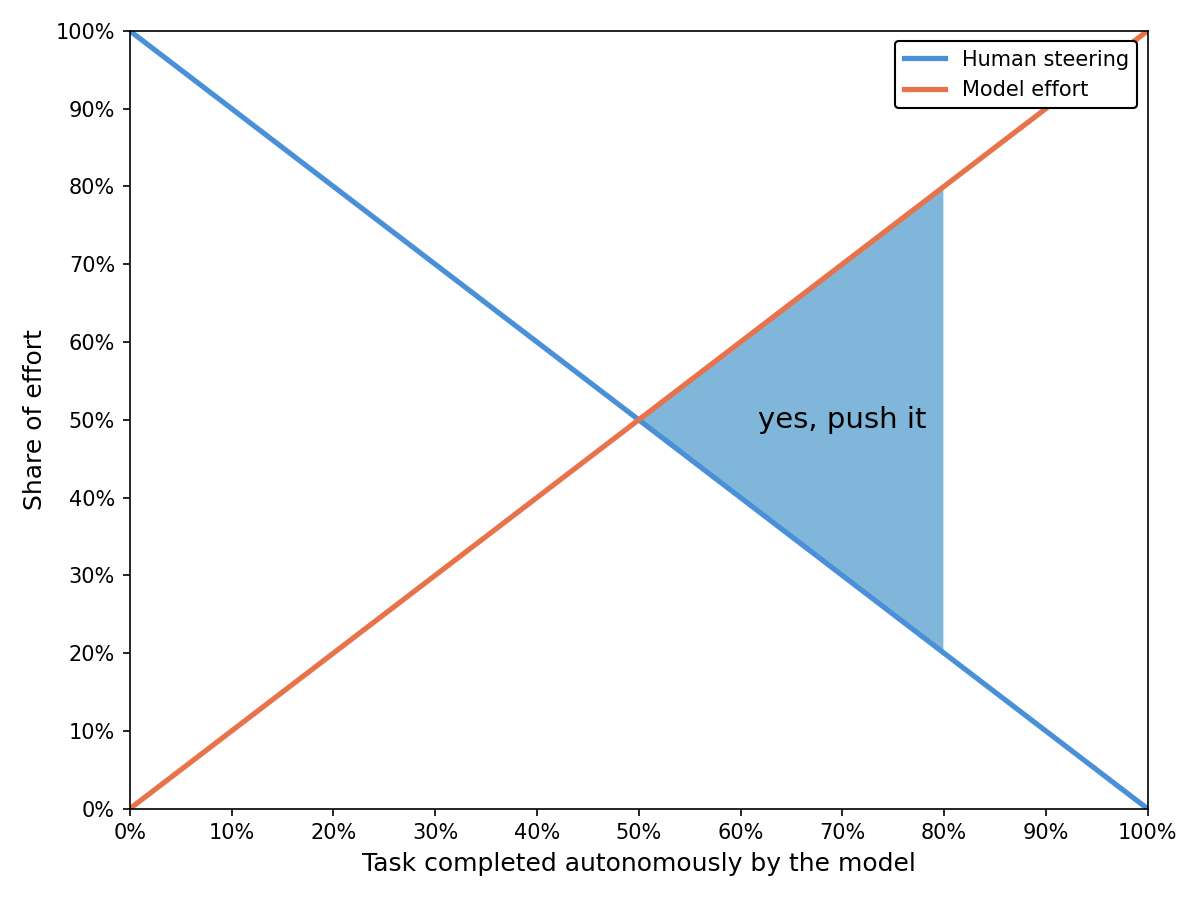
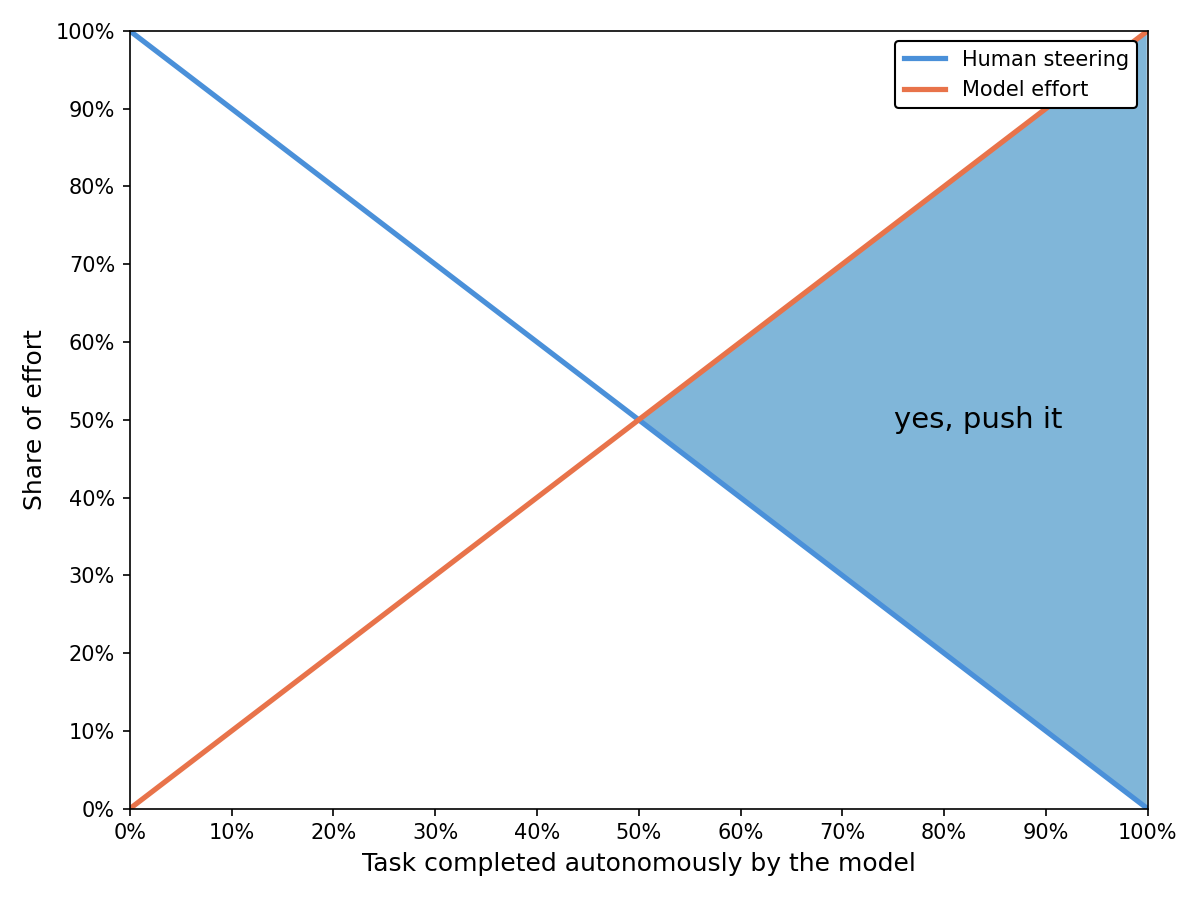
some refinements

Changed region(s): [[0.6475, 0.0311, 0.9558, 0.9022]]

diff --git a/blog/capabilities/index.html b/blog/capabilities/index.html
@@ -3,7 +3,7 @@
 <head>
     <meta charset="utf-8"/>
     <meta name="viewport" content="width=device-width, initial-scale=1"/>
-    <meta name="source-hash" content="ce14ca2e8488051f"/>
+    <meta name="source-hash" content="05cad6f5dfb207ad"/>
     <title>Capabilities</title>
     <script src="/dist/theme.js"></script>
     <script>try { localStorage.setItem('locale', 'en'); } catch (e) {}</script>
@@ -129,9 +129,9 @@
 <li>Parallelism: if many models are doing many tasks, how can inference providers maximize GPU utilization and KV Cache offloading and onloading so that every watt of compute is being routed to something at a given time. </li>
 <li>Model Profiling: you don&#39;t need to route requests each time if you already know what models sit at equilibria. To my knowledge, there isn&#39;t an all-purpose toolbench to do this yet.</li>
 </ul>
-<p>I expect that while intelligence is subsidized, companies and individuals will use frontier models because it feels like the safe choice and it requires less steering. </p>
-<p>Budget-concious organizations will make their own evals and perhaps even RL small models on them (like <a href="https://x.com/RampLabs/status/2052447438795833506">Ramp</a> did). But to diffuse AI into the wider economy at its current price, much work needs to be done on simple to use optimizers that SMBs can use to save their token spend, both for use by individuals within a organization and for specific tasks. </p>
-<p>Paraphrased: Jev might be very cheap but your average store clerk isn&#39;t gonna get an API key and make an eval to see if it beats Astra at classifying defects in products. Hence the need for diffusion companies.  </p>
+<p>I expect that while intelligence is subsidized, companies and individuals will use frontier models because it feels like the safe choice and it requires less steering. Budget-concious organizations will make their own evals and perhaps even RL small models on them (like <a href="https://x.com/RampLabs/status/2052447438795833506">Ramp</a> did). </p>
+<p>But to diffuse AI into the wider economy at its current price, much work needs to be done on simple to use optimizers that small and medium sized organizations can use to save their token spend, both for use by individuals within a organization and for specific tasks. </p>
+<p>Paraphrased: Jev might be very cheap but your average store clerk or non-profit worker isn&#39;t gonna get an API key and make an eval to see if it beats Astra at their classification task. Hence the need for diffusion companies.  </p>
 <p>In the graph, the equilibria makes sense if you think about the 50% human effort as setting up the infrastructure and evals to get the model with the best speed, price, and intelligence for the task (both pre-selecting it or changing it at runtime). Whereas using a frontier model avoids you the work but costs a lot.</p>
 <p><img src="/blog/assets/figures/en/human-model-equilibrium.png" alt="Equilibrium between human steering and model effort, at 50% of the task completed autonomously by the model." title="Equilibrium Between Human Steering and Model Effort"></p>
 <p>I expect this to change with harnesses that auto-route and simpler infrastructure for evaluating and training task-specific models.</p>
@@ -140,6 +140,15 @@
 <p><img src="/blog/assets/figures/en/human-model-underreliance.png" alt="Deadweight loss on the left side of the human steering and model effort graph, where a small model needs heavy human guidance." title="Deadweight Loss From Under-Relying on the Model"></p>
 <p>I could only get them to do what I wanted by pointing out the exact lines of code they had to look at. I even had to change some code by hand because even though I&#39;d tell them five times in a row to execute the change, it just thought, and thought, until its context overflowed. </p>
 <p>Another dimension the graph doesn&#39;t capture is time<sup><a id="footnote-ref-5" href="#footnote-5" data-footnote-ref aria-describedby="footnote-label">5</a></sup>. It took me considerably long to finish my project with Qwen because it needed so much handholding. I knew frontier models would&#39;ve been done in way less. It also doesn&#39;t capture mental load: it is genuinely a more relaxed experience to prompt your way through. You don&#39;t really need to think. </p>
+<p>Though, in my case, I chose to work my way through it because I wanted to experiment. In the real world, DWL on the left is visible on tasks that the models aren&#39;t good at <em>yet</em>. The odd finance benchmarks, ML research benchmarks, and computer use tasks. You still need people taking care of these or at least reviewing and steering model outputs. </p>
+<p>In my opinion, if accuracy can be quantified and the task is economically valuable, they will be conquered eventually, likeliest first at the frontier, shifting to the right. This is true of tasks where labs and startups have an interest to introduce automation. It&#39;s part of the diffusion process. </p>
+<p>Together, both parts of the graph paint a cohesive picture: the frontier will lay the groundwork at the toughest challenges, while diffusion makes them economically viable and fast. </p>
+<p>I see two paths going forward for the future of work:</p>
+<ul>
+<li>Skills that can not be optimized against (yet. Until humanoids) will become increasingly valuable. E.g., interpersonal communication, relationship building.</li>
+<li>If we do optimize everything optimizable (though I expect this to take really long), we&#39;ll make different problems for ourselves that 
+require skills outside the scope of optimization (see <a href="https://asteriskmag.com/issues/15/after-work-we-ll-have-each-other">this</a> essay).</li>
+</ul>
 <section class="footnotes" data-footnotes>
 <h2 id="footnote-label" class="sr-only">Footnotes</h2>
 <ol>

diff --git a/blog/assets/code/supply-demand-curves.py b/blog/assets/code/supply-demand-curves.py
@@ -26,9 +26,9 @@ PERCENT_TICK_STEP = 10
 HUMAN_MODEL_EQUILIBRIUM = 50
 HUMAN_MODEL_EQUILIBRIUM_TEXT = 'Equilibrium: Human set up\nresults in optimized model'
 HUMAN_MODEL_EQUILIBRIUM_TEXT_X = 57
-OVERRELIANCE_AUTONOMY = 80
+OVERRELIANCE_AUTONOMY = 100
 OVERRELIANCE_TEXT = 'yes, push it'
-UNDERRELIANCE_AUTONOMY = 10
+UNDERRELIANCE_AUTONOMY = 0
 UNDERRELIANCE_FONT_SIZE = 9
 UNDERRELIANCE_TEXT = (
     'Edit lines 100-112.\n'

diff --git a/blog/posts/capabilities.md b/blog/posts/capabilities.md
@@ -81,17 +81,17 @@ If frontier intelligence does increase in cost, I see three technical challenges
 - Parallelism: if many models are doing many tasks, how can inference providers maximize GPU utilization and KV Cache offloading and onloading so that every watt of compute is being routed to something at a given time. 
 - Model Profiling: you don't need to route requests each time if you already know what models sit at equilibria. To my knowledge, there isn't an all-purpose toolbench to do this yet. 
 
-I expect that while intelligence is subsidized, companies and individuals will use frontier models because it feels like the safe choice and it requires less steering. 
+I expect that while intelligence is subsidized, companies and individuals will use frontier models because it feels like the safe choice and it requires less steering. Budget-concious organizations will make their own evals and perhaps even RL small models on them (like [Ramp](https://x.com/RampLabs/status/2052447438795833506) did). 
 
-Budget-concious organizations will make their own evals and perhaps even RL small models on them (like [Ramp](https://x.com/RampLabs/status/2052447438795833506) did). But to diffuse AI into the wider economy at its current price, much work needs to be done on simple to use optimizers that SMBs can use to save their token spend, both for use by individuals within a organization and for specific tasks. 
+But to diffuse AI into the wider economy at its current price, much work needs to be done on simple to use optimizers that small and medium sized organizations can use to save their token spend, both for use by individuals within a organization and for specific tasks. 
 
-Paraphrased: Jev might be very cheap but your average store clerk isn't gonna get an API key and make an eval to see if it beats Astra at classifying defects in products. Hence the need for diffusion companies.  
+Paraphrased: Jev might be very cheap but your average store clerk or non-profit worker isn't gonna get an API key and make an eval to see if it beats Astra at their classification task. Hence the need for diffusion companies.  
 
 In the graph, the equilibria makes sense if you think about the 50% human effort as setting up the infrastructure and evals to get the model with the best speed, price, and intelligence for the task (both pre-selecting it or changing it at runtime). Whereas using a frontier model avoids you the work but costs a lot.
 
 ![Equilibrium between human steering and model effort, at 50% of the task completed autonomously by the model.](/blog/assets/figures/en/human-model-equilibrium.png "Equilibrium Between Human Steering and Model Effort")
 
-I expect this to change with harnesses that auto-route and simpler infrastructure for evaluating and training task-specific models.
+I expect this to change with harnesses that auto-route and simpler infrastructure for evaluating and training task-specific models. It is also nice that this is a defined engineering effort. If we get it right once, everyone benefits.
 
 What about DWL on the left side of the graph?
 
@@ -101,18 +101,20 @@ I was recently experimenting with the Qwen family of models, running them locall
 
 I could only get them to do what I wanted by pointing out the exact lines of code they had to look at. I even had to change some code by hand because even though I'd tell them five times in a row to execute the change, it just thought, and thought, until its context overflowed. 
 
-Another dimension the graph doesn't capture is time[^5]. It took me considerably long to finish my project with Qwen because it needed so much handholding. I knew frontier models would've been done in way less. It also doesn't capture mental load: it is genuinely a more relaxed experience to prompt your way through. You don't really need to think. 
+Another dimension the graph doesn't capture is time[^5]. It took me considerably longer to finish my project with Qwen because it needed so much handholding. I knew frontier models would've been done in way less time. It also doesn't capture mental load: it is so much easier to just prompt your way through. You don't really need to think. 
 
-Though, in my case, I chose to work my way through it because I wanted to experiment. In the real world, DWL on the left is visible on tasks that the models aren't good at *yet*. The odd finance benchmarks, ML research benchmarks, and computer use tasks. You still need people taking care of these or at least reviewing and steering model outputs. 
+Though, in my case, I chose to work my way through it because I wanted to experiment. In the real world, DWL on the left is visible on tasks that the models aren't good at *yet*. The odd finance benchmarks, ML research benchmarks, and computer use tasks. You still need people reviewing and steering the model's outputs. 
 
 In my opinion, if accuracy can be quantified and the task is economically valuable, they will be conquered eventually, likeliest first at the frontier, shifting to the right. This is true of tasks where labs and startups have an interest to introduce automation. It's part of the diffusion process. 
 
-Together, both parts of the graph paint a cohesive picture: the frontier will lay the groundwork at the toughest challenges, while diffusion makes them economically viable and fast. 
+Together, both parts of the graph paint a cohesive picture: the frontier will lay the groundwork at the toughest challenges in a expensive, innefficient way, while diffusion makes them economically viable and fast.
 
 I see two paths going forward for the future of work:
-- Skills that can not be optimized against (yet. Until humanoids) will become increasingly valuable. E.g., interpersonal communication, relationship building.
+- Skills that can not be optimized against (yet) will become increasingly valuable. E.g., interpersonal communication, relationship building.
 - If we do optimize everything optimizable (though I expect this to take really long), we'll make different problems for ourselves that 
 require skills outside the scope of optimization (see [this](https://asteriskmag.com/issues/15/after-work-we-ll-have-each-other) essay).
+
+In either case, we'll be better off from it. It will provide healthcare and education for millions of people in underprivileged areas, enable massive social mobility - the works. If we align it, that is.
 
 [^1]: Ideally, each customer would be charged the maximum they can pay. This is referred to as first degree pricing. But often sellers don't know what that maximum price is, and instead offer many options at different tiers (ex. 1st class, premium economy, economy) so the buyer chooses for themselves. This is referred to as second degree pricing. Third degree pricing forces customers to segment by making the quality gap between the options large or enforcing tiers (ex. student discounts). They all aim to extract as much of what the customer can pay for a good from them, which is referred to as their surplus.
 
